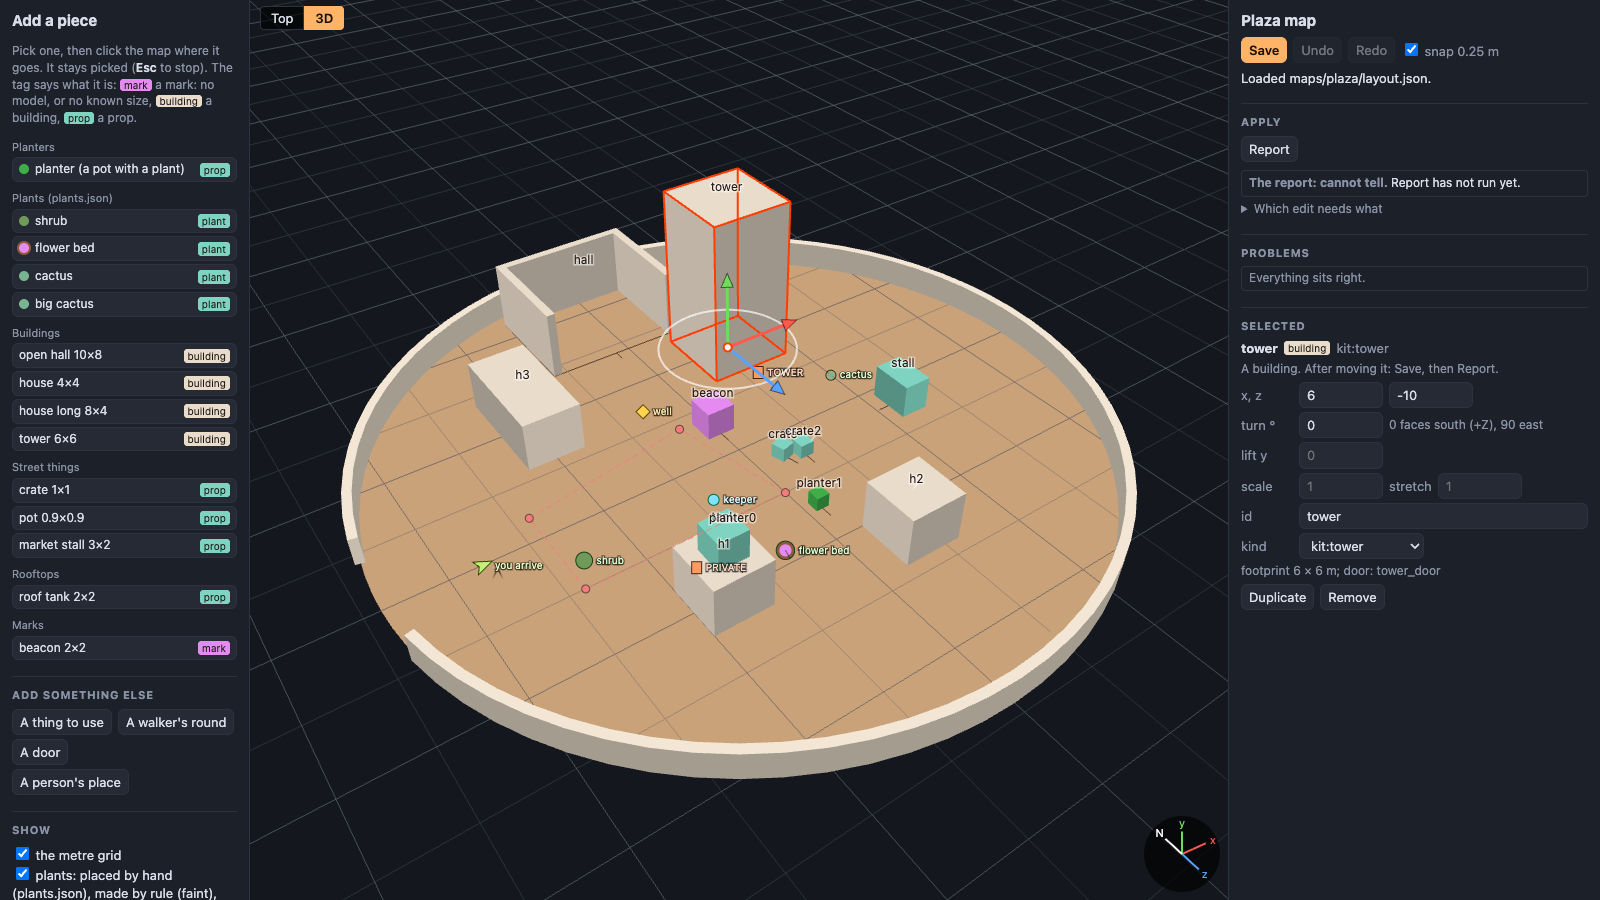
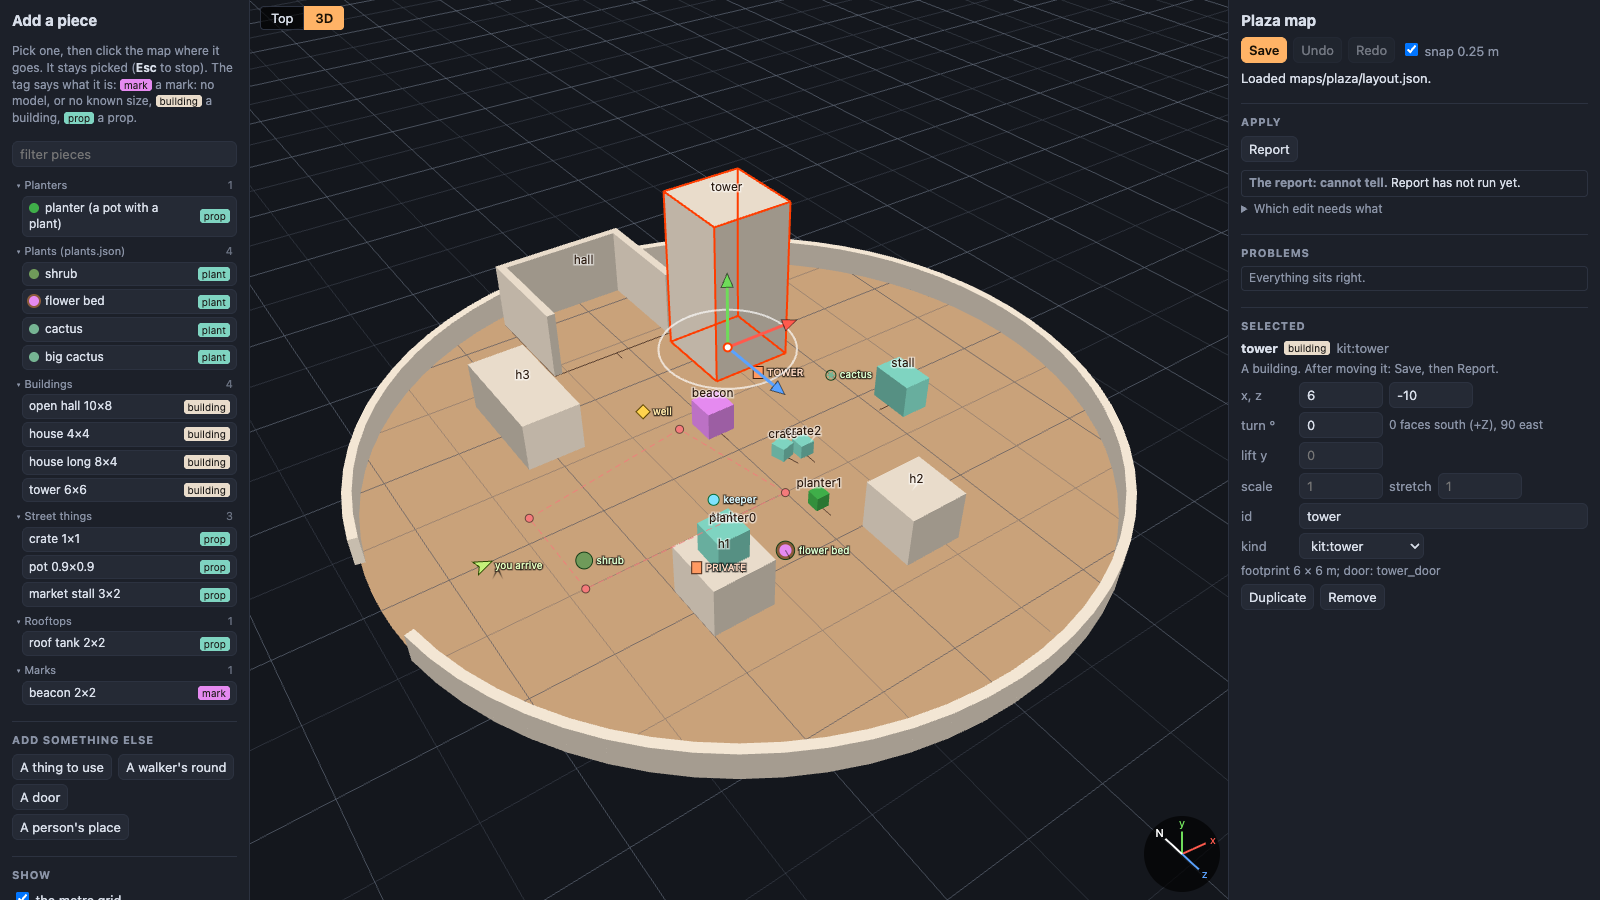
Model viewer: review in the Inspector, its jobs in the bottom panel

Changed region(s): [[0.0, 0.1556, 0.1562, 1.0], [0.0938, 0.1556, 0.1562, 0.7778], [0.0938, 0.7778, 0.125, 0.8089]]

diff --git a/src/viewer.html b/src/viewer.html
@@ -11,7 +11,8 @@
 html, body { margin: 0; height: 100%; background: var(--bg); color: var(--text); font: 13px/1.45 ui-sans-serif, system-ui, sans-serif; }
 body { display: grid; grid-template-columns: 260px 1fr 340px; grid-template-rows: 40px 1fr; height: 100vh; }
 /* inside the workbench (a tab) the workbench's top bar is the only one */
-body.framed { grid-template-rows: 1fr; } body.framed > header { display: none; } body.lent-side { grid-template-columns: 1fr 340px; }
+body.framed { grid-template-rows: 1fr; } body.framed > header { display: none; } body.framed { grid-template-columns: 260px 1fr; } body.framed.lent-side { grid-template-columns: 1fr; } body.framed #right { display: none; }
+#review, #reviews { background: var(--panel); padding: 0 12px 20px; } #review h2:first-child { margin-top: 4px; }
 header { grid-column: 1 / 4; display: flex; align-items: center; gap: 12px; padding: 0 12px; border-bottom: 1px solid var(--line); background: var(--panel); }
 header h1 { font-size: 14px; margin: 0; font-weight: 600; } header .grow { flex: 1; } header a { color: var(--dim); }
 aside { overflow: auto; background: var(--panel); border-right: 1px solid var(--line); padding: 10px; }
@@ -70,7 +71,7 @@ main.pinning #view { cursor: crosshair; }
   <h2>Workflow</h2><select id="workflow"></select>
   <p id="warn" class="bad"></p>
   <p><button class="primary" id="send" disabled>Send to Claude</button> <span id="sendState" class="dim"></span></p>
-  <h2>Jobs</h2><div id="jobs" class="dim">none yet</div>
+  <h2 id="jobsHead">Jobs</h2><div id="jobs" class="dim">none yet</div>
 </aside>
 <div id="zoom"><img alt="reference image"></div>
 <script src="/shell/lend.js"></script>
@@ -81,9 +82,19 @@ main.pinning #view { cursor: crosshair; }
 // for a Claude Code session (see the README, "Model review"). three.js is installed on demand from the Install button.
 // in the workbench, the model list is lent to its side panel: look there too
 document.head.append(Object.assign(document.createElement('style'), { textContent: nfTree.css }));   // before the column is lent: it takes the page's styles along
-const panel = window.top !== window ? nfLendPanel(document.getElementById('left'), { title: 'Model viewer', css: '#left { padding: 10px; }' }) : null;
+// In the workbench the page keeps the model and its toolbar: the model list is lent to the side panel, the review
+// (pins, note, workflow, Send) to the Inspector, and the review jobs to the bottom panel as "Reviews".
+const embedded = window.top !== window;
+if (embedded) {
+  const byId = (id) => document.getElementById(id), right = byId('right'), div = (id) => Object.assign(document.createElement('div'), { id });
+  document.body.classList.add('framed');
+  const review = div('review'), reviews = div('reviews');
+  review.append(...[...right.children].filter((e) => e.id !== 'jobs' && e.id !== 'jobsHead')); reviews.append(byId('jobs'));
+  right.append(review, reviews);
+}
+const panel = embedded ? nfLend({ side: { el: document.getElementById('left'), title: 'Model viewer', css: '#left { padding: 10px; }' },
+  inspector: { el: document.getElementById('review'), title: 'Review' }, bottom: { el: document.getElementById('reviews'), title: 'Reviews', key: 'reviews' } }) : null;
 const $ = (id) => document.getElementById(id) || (panel && panel.byId(id));
-if (window.top !== window) document.body.classList.add('framed');
 const el = (tag, props = {}, ...kids) => { const e = Object.assign(document.createElement(tag), props); for (const k of kids) e.append(k); return e; };
 const api = async (path, options) => { const r = await fetch(path, options), j = await r.json().catch(() => ({})); if (!r.ok) throw new Error(j.error || `${r.status} ${r.statusText}`); return j; };
 const post = (path, body) => api(path, { method: 'POST', headers: { 'Content-Type': 'application/json' }, body: JSON.stringify(body) });

diff --git a/src/shell/lend.js b/src/shell/lend.js
@@ -44,5 +44,3 @@ window.nfLend = function nfLend(parts) {
     },
   };
 };
-// until the pages lend more than their left column
-window.nfLendPanel = (aside, opts) => { const l = window.nfLend({ side: { el: aside, ...opts } }); window.__nfPanel = window.__nfLent.side; return l; };

diff --git a/README.md b/README.md
@@ -362,8 +362,12 @@ Any other section (a project's planting rules, say) is kept as it is; the editor
 
 ## Using the editor
 
-The page has three columns: the palette and layers on the left, the map in the middle, and the map's
-state and the selection on the right.
+The bare page (`/map?alone`) has three columns: the palette and layers on the left, the map in the middle, and the
+map's state and the selection on the right. In the workbench the map takes the room instead: the left column is the
+side panel; **Save**, **Undo**, **Redo**, snap, the map's name and the status line are a bar over the map, beside
+**Top / 3D**; the map's Apply box and the selection are the **Inspector** (titled *Map* with nothing selected,
+*Selected* otherwise); and problems are listed once, in the bottom panel's **Problems** tab, where a click pans to
+one and selects it.
 
 ### The map
 
@@ -599,8 +603,12 @@ every command. Plugins add to it; **🧩 Plugins** turns them on and off and ask
 edits their settings. The map editor and the model viewer are always its tabs (from the **Core Tools** plugin, until
 they are rebuilt as plugins): opening `/map` or `/viewer` in a browser goes to `/?view=map` or `/?view=viewer`, and
 only `?alone` (or a frame) gets the bare page. The side panel follows the view shown: the map editor's left column
-(the palette, Show, Legend, Keys) or the viewer's model list. The side panel, inspector and bottom panel hide from
-the bar or with **⌘B**, **⌘I** and **⌘J** (kept per browser), not yet resized by dragging; **⌘G** turns every grid
+(the palette, Show, Legend, Keys) or the viewer's model list. The Inspector follows it too: the map's Apply box and
+selection, or the viewer's review (pins, note, workflow, **Send to Claude**); the viewer's review jobs are the bottom
+panel's **Reviews** tab. The bottom panel rests as a one-line strip of its tabs, with the number of problems and a
+● on Jobs while one runs: a tab opens it, the same tab or **⌘J** closes it, and it never opens by itself. The side
+panel and the Inspector hide from the bar or with **⌘B** and **⌘I**, and their inner edges drag to set their widths
+(at least 200 px each; the documents always keep 320). All of this is kept per browser. **⌘G** turns every grid
 on or off. On Windows and Linux, Ctrl stands for ⌘.
 
 How to write one, what it gets, and what trust means: [`docs/plugins.md`](docs/plugins.md). A small example:
